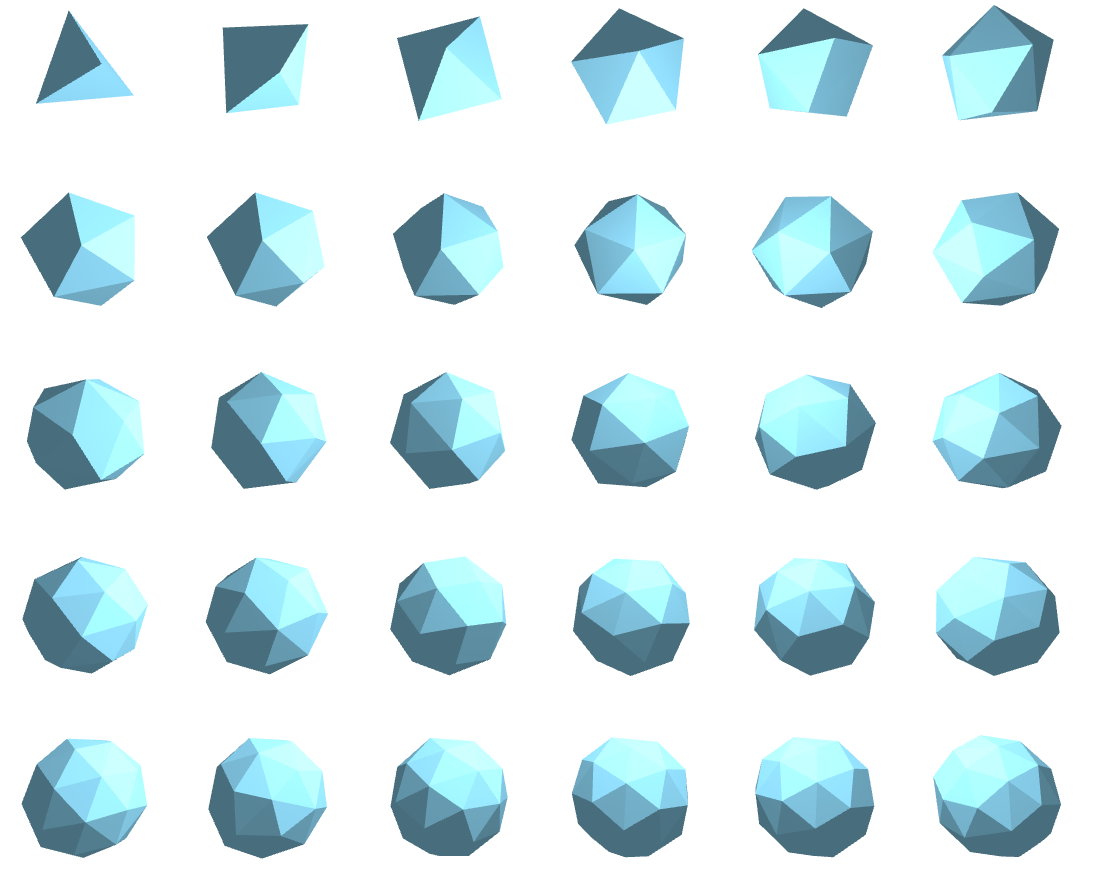
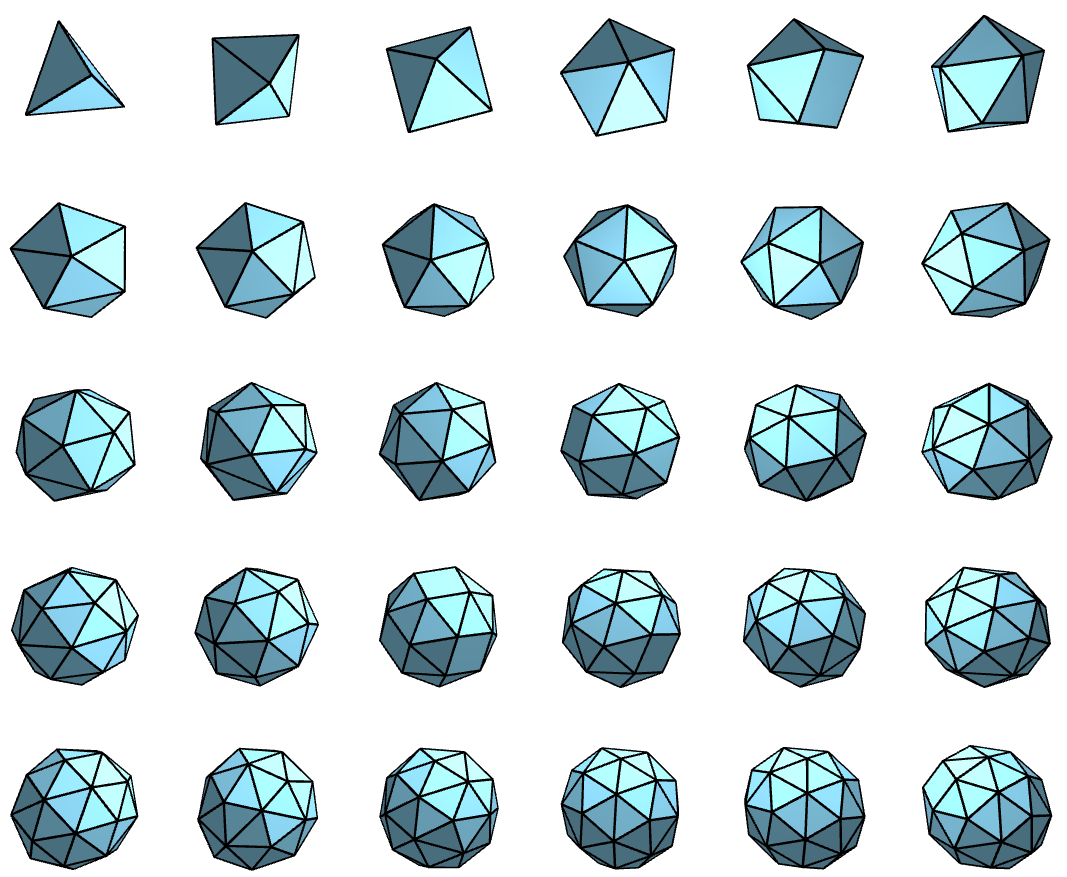
Added line on result

diff --git a/html5/DrawFace.js b/html5/DrawFace.js
@@ -276,8 +276,9 @@ function drawFace() {
     }
 }
 
-function drawInnerFace()
+function drawInnerFaceOne(offsetP)
 {
+    OffsetPoint = offsetP;
     var shortest = 1000;
     for (var i = 0; i < Trons.length; ++i) {
         for (var j = i + 1; j < Trons.length; ++j) {
@@ -294,6 +295,10 @@ function drawInnerFace()
             var p0 = Trons[i].point.clone();
             var p1 = Trons[j].point.clone();
             var dis01 = p0.dis(p1);
+            if (dis01 < shortest * 1.4) {
+                var cyl = createCylinder(p0, p1, 2, 0x000000);
+                ThreeScene.add(cyl);
+            }
             if (dis01 < shortest * 1.5) {
                 for (var k = j + 1; k < Trons.length; ++k) {
                     var p2 = Trons[k].point.clone();

diff --git a/html5/ThreeView.js b/html5/ThreeView.js
@@ -209,9 +209,11 @@ function createCylinder(inP0, inP1, r, col)
 {
     var p0 = inP0.clone();
     var p1 = inP1.clone();
+    p0.add(OffsetPoint);
     p0.mul(ThreeRadius);
+    p1.add(OffsetPoint);
     p1.mul(ThreeRadius);
-    var material = new THREE.MeshLambertMaterial({ color:col, ambient:col, opacity:1.0 });
+    var material = new THREE.MeshLambertMaterial({ color: col, ambient: col, opacity: 1.0 });
     var cylinder = new THREE.Mesh(new THREE.CylinderGeometry(r, r, p0.dis(p1), 0, 0, false), material);
     //cylinder.overdraw = true;
 
